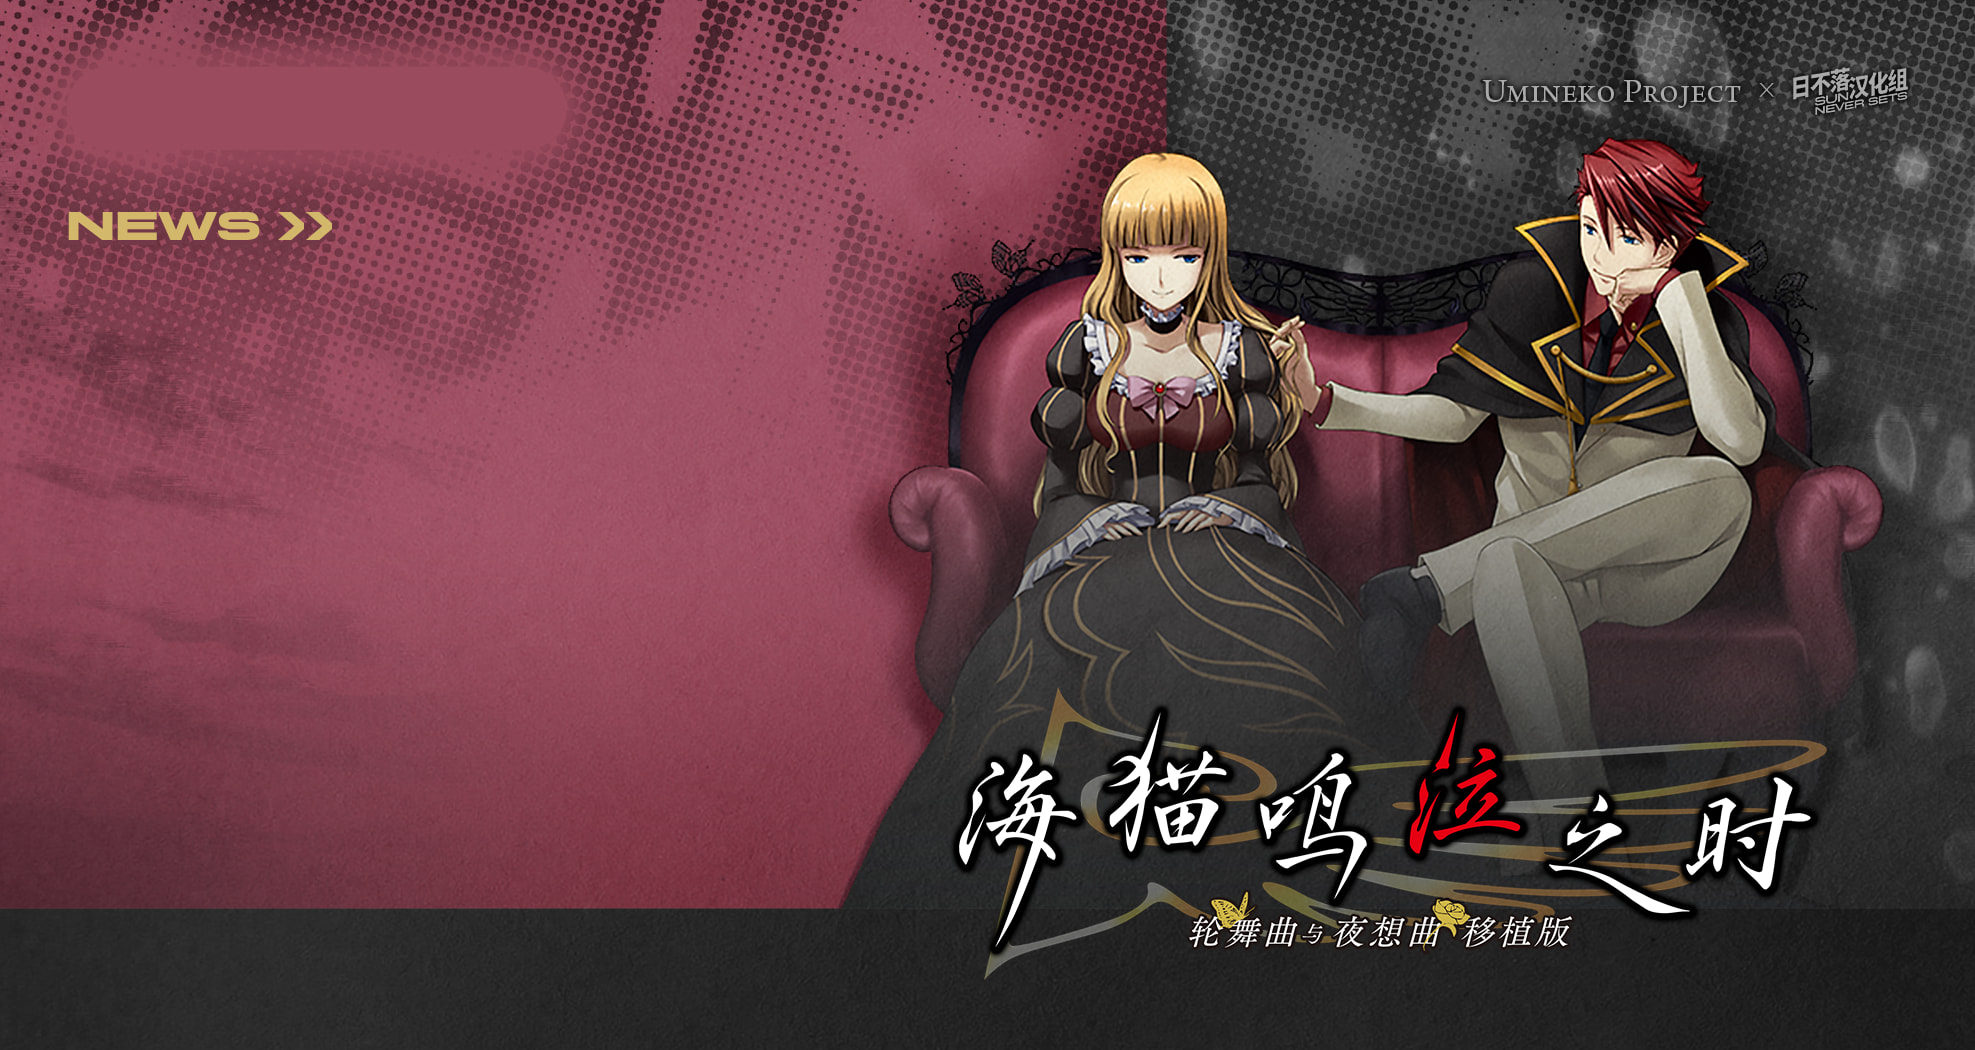
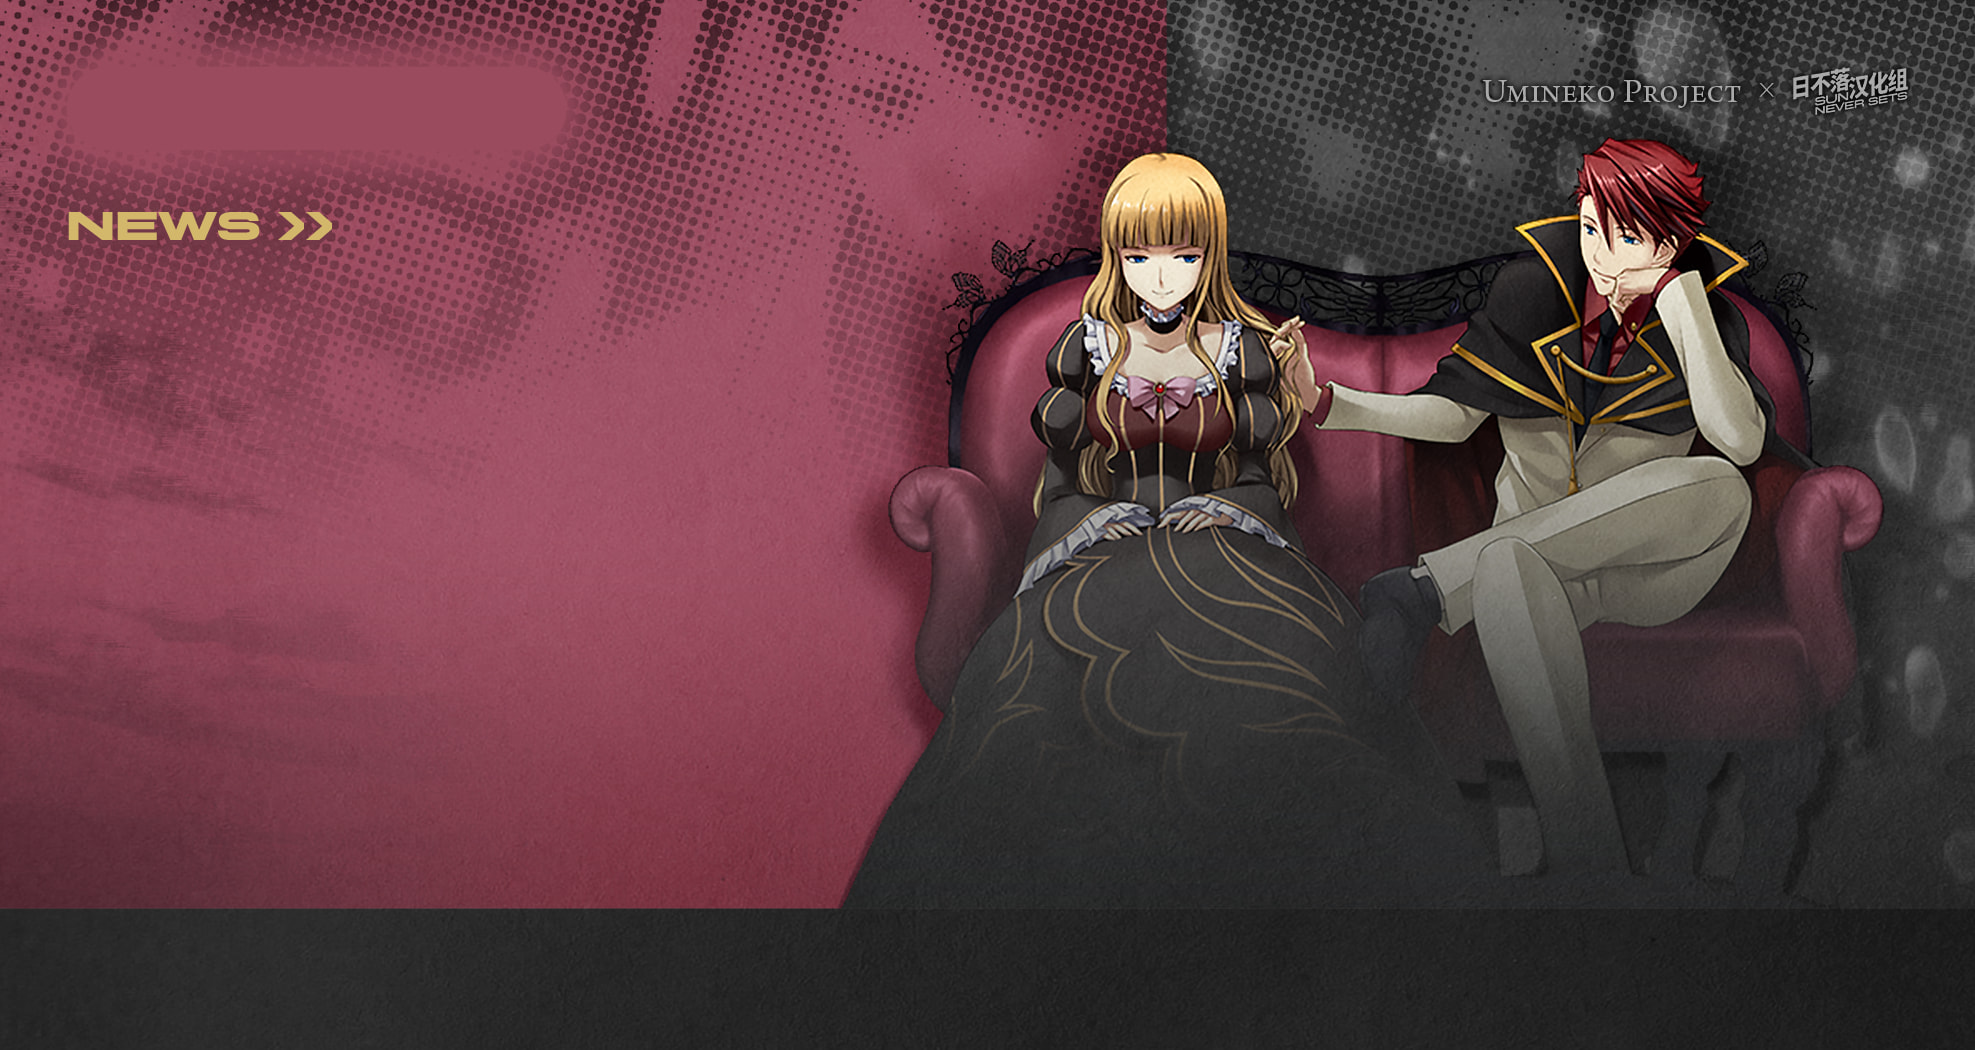
优化多语言支持/提升版本号

Changed region(s): [[0.4633, 0.6705, 0.9266, 0.9143]]

diff --git a/UminekoLauncher/Views/SplashScreen.xaml b/UminekoLauncher/Views/SplashScreen.xaml
@@ -1,0 +1,20 @@
+<v:AnimatedWindow
+    x:Class="UminekoLauncher.Views.SplashScreen"
+    xmlns="http://schemas.microsoft.com/winfx/2006/xaml/presentation"
+    xmlns:x="http://schemas.microsoft.com/winfx/2006/xaml"
+    xmlns:d="http://schemas.microsoft.com/expression/blend/2008"
+    xmlns:mc="http://schemas.openxmlformats.org/markup-compatibility/2006"
+    xmlns:v="clr-namespace:UminekoLauncher.Views"
+    Title="SplashScreen"
+    AllowsTransparency="True"
+    Background="Transparent"
+    Cursor="Wait"
+    Icon="/Resources/Images/icon.ico"
+    Loaded="Window_Loaded"
+    ResizeMode="NoResize"
+    ShowInTaskbar="False"
+    WindowStartupLocation="CenterScreen"
+    WindowStyle="None"
+    mc:Ignorable="d">
+    <Image x:Name="imgSplash" Stretch="None" />
+</v:AnimatedWindow>

diff --git a/UminekoLauncher/Views/MainWindow.xaml b/UminekoLauncher/Views/MainWindow.xaml
@@ -34,6 +34,12 @@
             </Border.Background>
         </Border>
 
+        <Image
+            x:Name="imgLogo"
+            Width="370"
+            Height="153"
+            Margin="370,253,0,0" />
+
         <StackPanel Margin="27,27,0,0">
             <StackPanel.IsEnabled>
                 <MultiBinding Converter="{StaticResource MainAvailablityConverter}" Mode="OneWay">

diff --git a/UminekoLauncher/App.xaml b/UminekoLauncher/App.xaml
@@ -3,7 +3,7 @@
     xmlns="http://schemas.microsoft.com/winfx/2006/xaml/presentation"
     xmlns:x="http://schemas.microsoft.com/winfx/2006/xaml"
     xmlns:ctl="clr-namespace:UminekoLauncher.Views.Controls"
-    StartupUri="/Views/MainWindow.xaml">
+    StartupUri="/Views/SplashScreen.xaml">
     <Application.Resources>
 
         <!--#region 通知灯颜色-->

diff --git a/UminekoLauncher/Localization/Localized.cs b/UminekoLauncher/Localization/Localized.cs
@@ -1,0 +1,31 @@
+using System;
+using System.Globalization;
+using System.Windows.Media.Imaging;
+
+namespace UminekoLauncher.Localization
+{
+    internal static class Localized
+    {
+        public static CultureInfo UICulture { get; set; }
+        public static string LogoPath { get; set; }
+        public static BitmapImage LogoImage { get; set; }
+
+        static Localized()
+        {
+            UICulture = CultureInfo.CurrentUICulture;
+            switch (UICulture.Parent.Name)
+            {
+                case "zh-CHS":
+                    LogoPath = "pack://application:,,,/Resources/Images/Splashes/chs.png";
+                    break;
+                case "zh-CHT":
+                    LogoPath = "pack://application:,,,/Resources/Images/Splashes/cht.png";
+                    break;
+                default:
+                    LogoPath = "pack://application:,,,/Resources/Images/Splashes/en.png";
+                    break;
+            }
+            LogoImage = new BitmapImage(new Uri(LogoPath));
+        }
+    }
+}

diff --git a/UminekoLauncher/Views/SplashScreen.xaml.cs b/UminekoLauncher/Views/SplashScreen.xaml.cs
@@ -1,0 +1,32 @@
+using System;
+using System.Threading.Tasks;
+using System.Windows;
+using UminekoLauncher.Localization;
+
+namespace UminekoLauncher.Views
+{
+    /// <summary>
+    /// SplashScreen.xaml 的交互逻辑
+    /// </summary>
+    public partial class SplashScreen : AnimatedWindow
+    {
+        public SplashScreen()
+        {
+            InitializeComponent();
+            _opacityFadeIn.Duration = TimeSpan.FromSeconds(0.2);
+            _blurFadeIn.Duration = TimeSpan.FromSeconds(0.2);
+            _opacityFadeOut.Duration = TimeSpan.FromSeconds(0.2);
+            _blurFadeOut.Duration = TimeSpan.FromSeconds(0.2);
+            imgSplash.Source = Localized.LogoImage;
+        }
+
+        private async void Window_Loaded(object sender, RoutedEventArgs e)
+        {
+            await Task.Delay(300);
+            Window mainWindow = new MainWindow();
+            Application.Current.MainWindow = mainWindow;
+            mainWindow.Show();
+            Close();
+        }
+    }
+}

diff --git a/UminekoLauncher/Views/MainWindow.xaml.cs b/UminekoLauncher/Views/MainWindow.xaml.cs
@@ -1,5 +1,6 @@
 using System;
 using System.Windows.Input;
+using UminekoLauncher.Localization;
 using UminekoLauncher.ViewModels;
 
 namespace UminekoLauncher.Views
@@ -17,6 +18,7 @@ namespace UminekoLauncher.Views
             _blurFadeIn.Duration = TimeSpan.FromSeconds(0.4);
             _opacityFadeOut.Duration = TimeSpan.FromSeconds(0.2);
             _blurFadeOut.Duration = TimeSpan.FromSeconds(0.2);
+            imgLogo.Source = Localized.LogoImage;
         }
 
         private void Window_MouseLeftButtonDown(object sender, MouseButtonEventArgs e)

diff --git a/UminekoLauncher/Properties/AssemblyInfo.cs b/UminekoLauncher/Properties/AssemblyInfo.cs
@@ -51,5 +51,5 @@ using System.Windows;
 //可以指定所有这些值，也可以使用“生成号”和“修订号”的默认值
 //通过使用 "*"，如下所示:
 // [assembly: AssemblyVersion("1.0.*")]
-[assembly: AssemblyVersion("1.4.0.4")]
-[assembly: AssemblyFileVersion("1.4.0.4")]
+[assembly: AssemblyVersion("1.5.0.0")]
+[assembly: AssemblyFileVersion("1.5.0.0")]
